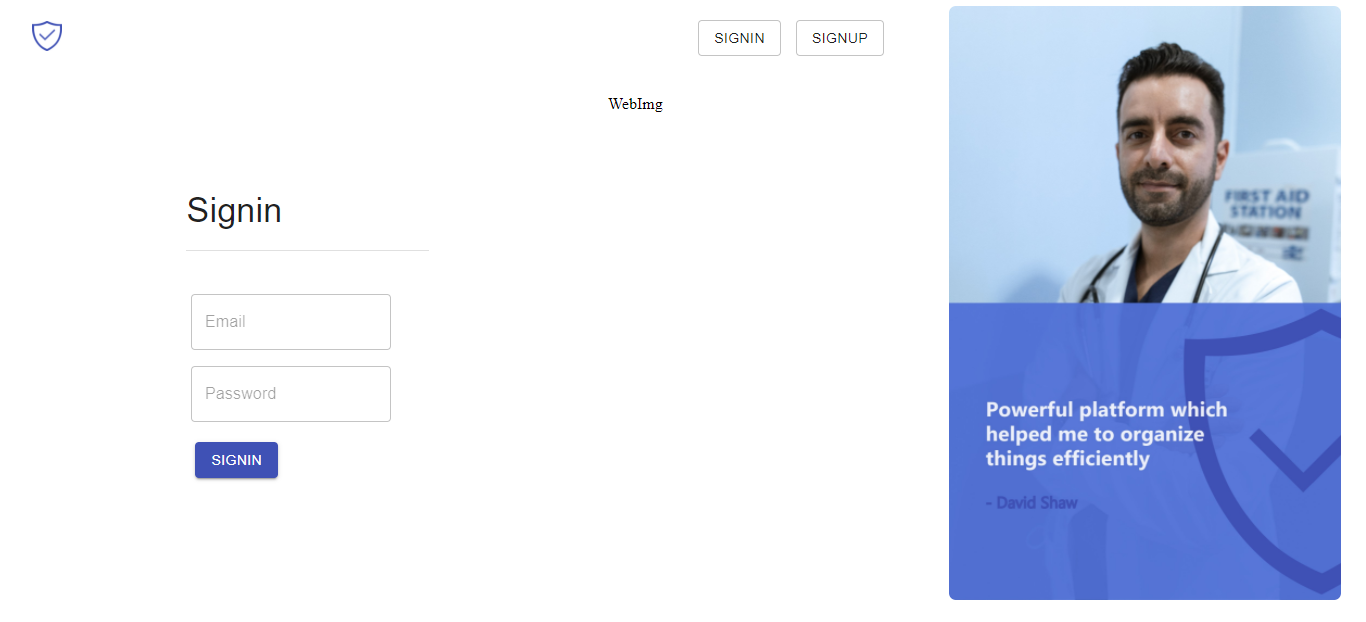
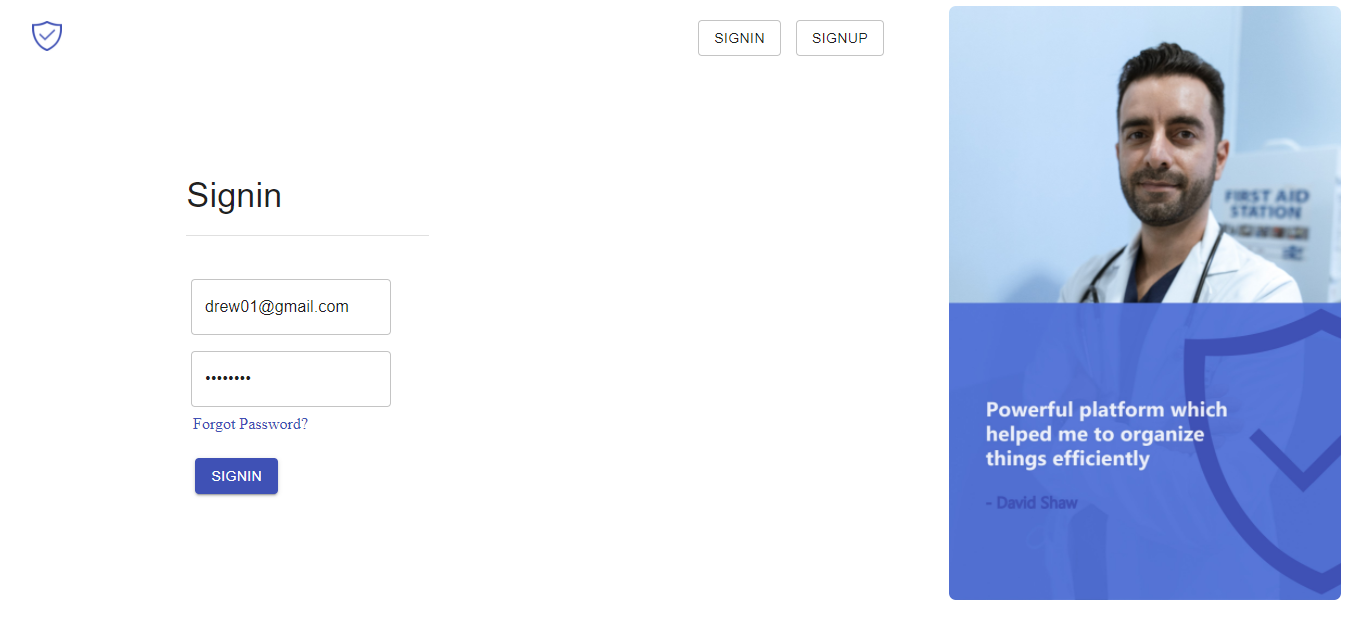
upload v1.2

diff --git a/projfrontend/src/helpers/home/Signup.js b/projfrontend/src/helpers/home/Signup.js
@@ -43,7 +43,7 @@ const Signup = () => {
     phone: '',
     password: '',
     cpassword: '',
-    error: '',
+    error: false,
     success: false
   });
 
@@ -59,7 +59,7 @@ const Signup = () => {
     signup({name, email, phone, password})
     .then(data => {
       if (data.error) {
-        setValues({...values, error: data.error, success: false});
+        setValues({...values, error: true, success: false});
       } else {
         setValues({
           ...values,
@@ -97,56 +97,61 @@ const Signup = () => {
             <TextField
               type='text'
               placeholder="Name"
-              // error
-              id="outlined-error"
-              // label="Invalid"
+              error={error}
+              id="outlined-error-helper-text"
+              label={error ? "Invalid" : ""}
               variant="outlined"
               value={name}
               onChange={handleChange('name')}
+              helperText={error ? "first name must start with a capital letter" : ""}
             />
           </div>
           <div>
             <TextField
               type='email'
               placeholder="Email"
-              // error
-              id="outlined-error"
-              // label="Invalid"
+              error={error}
+              id="outlined-error-helper-text"
+              label={error ? "Invalid" : ""}
               variant="outlined"
               value={email}
               onChange={handleChange('email')}
+              helperText={error ? "@gmail.com/@yahoo.com is required" : ""}
             />
             <TextField
               type='number'
               placeholder="phone"
-              // error
-              id="outlined-error"
-              // label="Invalid"
+              error={error}
+              id="outlined-error-helper-text"
+              label={error ? "Invalid" : ""}
               variant="outlined"
               value={phone}
               onChange={handleChange('phone')}
+              helperText={error ? "must be of 10 Digital & should not start with zero" : ""}
             />
           </div>
           <div>
             <TextField
               type='password'
               placeholder="Password"
-              // error
-              id="outlined-error"
-              // label="Invalid"
+              error={error}
+              id="outlined-error-helper-text"
+              label={error ? "Invalid" : ""}
               variant="outlined"
               value={password}
               onChange={handleChange('password')}
+              helperText={error ? "must contain 1 Capital, 1 Small, Number & a Special Character & minimum 8 Characters" : ""}
             />
             <TextField
               type='password'
               placeholder="Confirm Password"
-              // error
-              id="outlined-error"
-              // label="Invalid"
+              error={error}
+              id="outlined-error-helper-text"
+              label={error ? "Invalid" : ""}
               variant="outlined"
               value={cpassword}
               onChange={handleChange('cpassword')}
+              helperText={error ? "passwords do not match" : ""}
             />
           </div>
           <Button

diff --git a/projfrontend/src/helpers/home/Signin.js b/projfrontend/src/helpers/home/Signin.js
@@ -1,5 +1,5 @@
 import React, {useState} from 'react';
-import {Redirect} from 'react-router-dom';
+import {Link, Redirect} from 'react-router-dom';
 import {signin, authenticate, isAuthenticated} from '../apis/auth';
 import { makeStyles } from '@material-ui/core/styles';
 import Grid from '@material-ui/core/Grid';
@@ -32,6 +32,14 @@ const useStyles = makeStyles((theme) => ({
   },
   btn: {
     margin: '2vh 2vh',
+  },
+  link: {
+    color: '#3f51b5',
+    textDecoration: 'none',
+    marginLeft: 10,
+  },
+  linkBox: {
+    marginBottom: '2vh',
   },
 }));
 
@@ -120,6 +128,11 @@ const Signin = () => {
               value={password}
               onChange={handleChange('password')}
             />
+          </div>
+          <div className={classes.linkBox}>
+            <Link className={classes.link}>
+            Forgot Password?
+            </Link>
           </div>
           <Button
             className={classes.btn}
